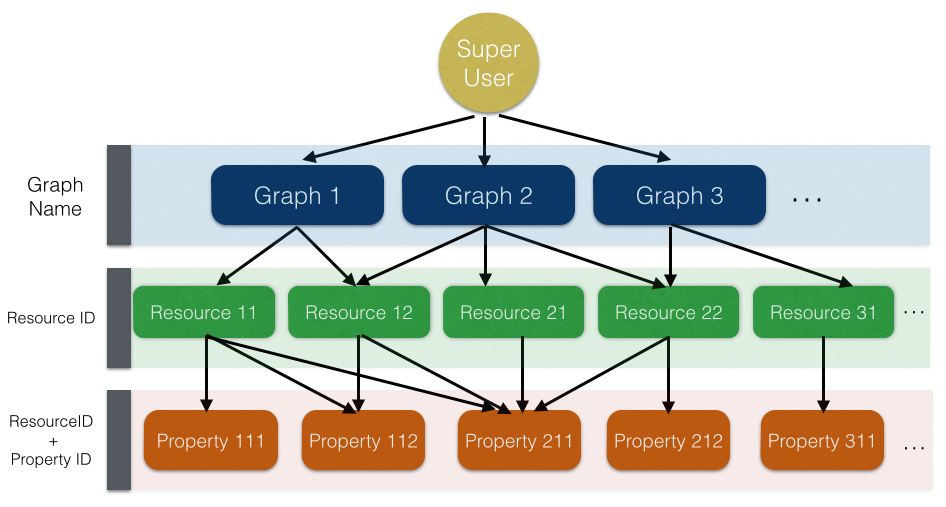
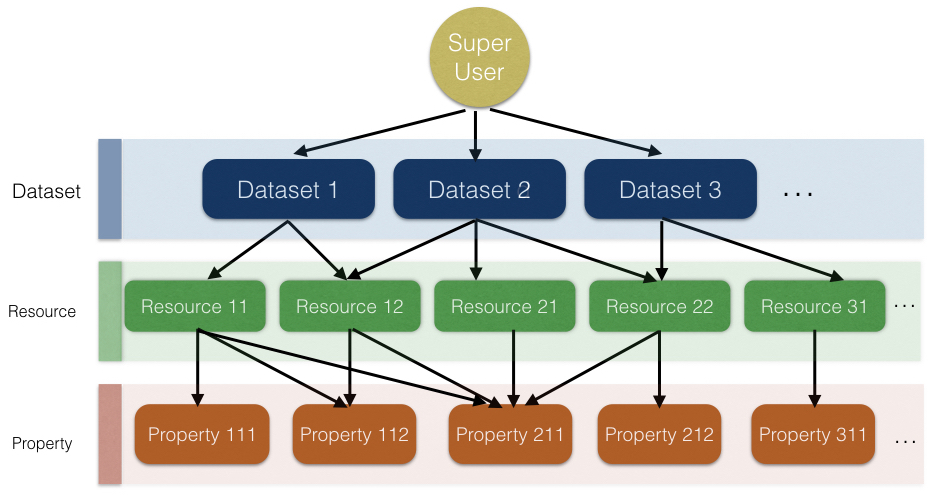
update auth

diff --git a/docs/pluginAuth.html b/docs/pluginAuth.html
@@ -12,7 +12,7 @@ path: docs/pluginAuth.html
     LD-R provides a plugin for authentication and user access control. Since LD-R stores users as resources in the triple store, you need to first insert user's data into your data store under a graph name. You then need to set this dataset URI as <span class="ui label">authDatasetURI</span> in your general.js config file. There is already a sample schema available for admin user at <a href="https://github.com/ali1k/ld-r/blob/master/plugins/authentication/schema/users.ttl"><span class="ui label">plugins/authentication/schema/users.ttl</span></a> that can be used. To enable user authentication, you need to set the value for <span class="ui label">enableAuthentication</span> to '1'. You can also setup <span class="ui label">enableUserConfirmation</span> to control user confirmation after registration. Each registered user will create a new resource which can be viewed, browsed and edited like other resources in the system.
 </p>
 <p>
-    LD-R defines an access strategy for users. There are three access levels in the system: Graph, Resource or Property-based access. A Super user will have access to whole levels and can configure which user has access to which level (e.g. User X can only edit Graph G1 or User Y can only edit Resource R or User Z can only edit Property P1 in Resource R1). The following figure depicts these three user access levels:
+    LD-R defines an access strategy for users. Access levels are based on the scopes defined for reactors. A Super user will have access to all levels and can configure which user has access to which level (e.g. User X can only edit dataset D1 or User Y can only edit Resource R or User Z can only edit Property P1 in Resource R1). The following figure depicts these user access levels:
 </p>
 <div>
     <img class="ui centered image" src="/assets/img/userAccessLevels.jpg" alt="ld-reactor access levels" />
